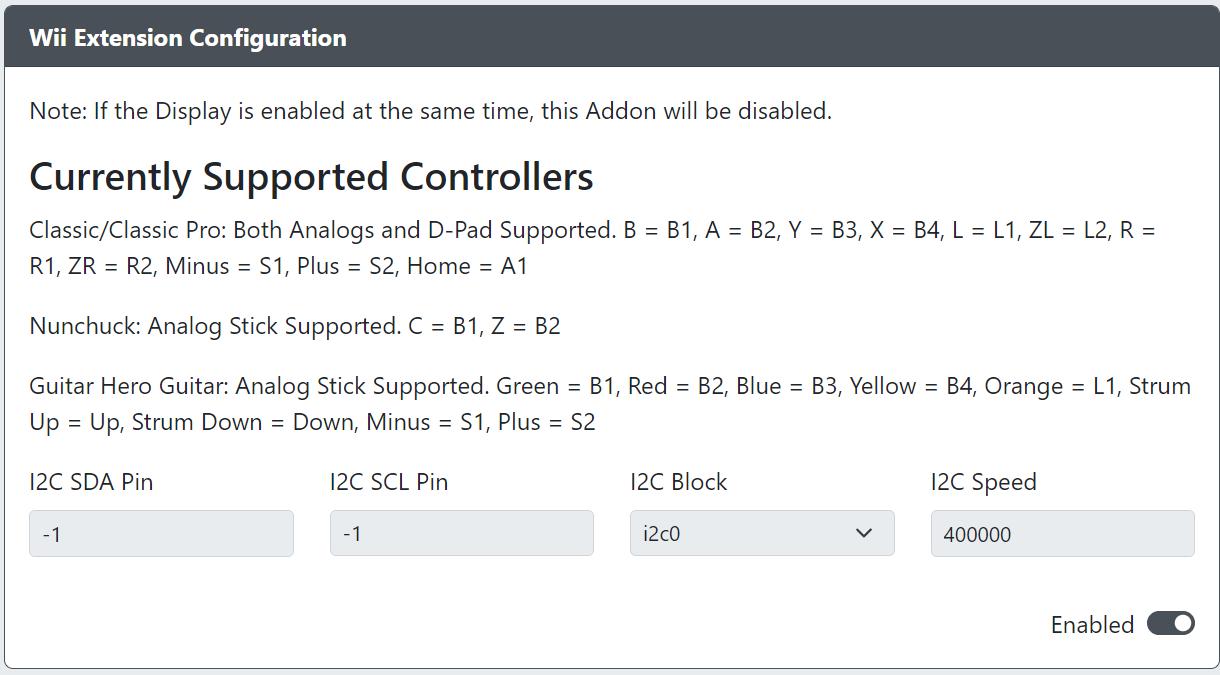
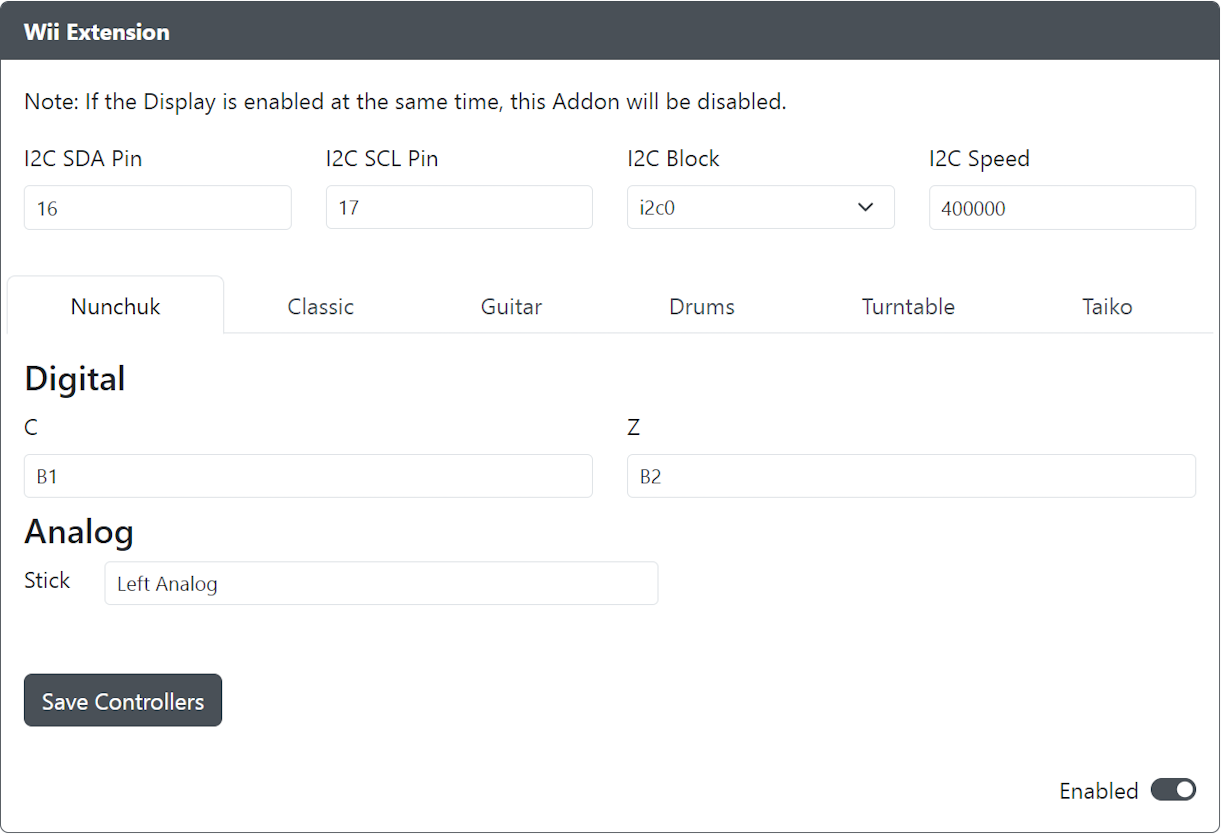
Fixed issue causing Classic Pro-based controllers from functioning. Updated documentation to remove Wii controller mapping details and add new image.

diff --git a/lib/WiiExtension/WiiExtension.cpp b/lib/WiiExtension/WiiExtension.cpp
@@ -48,9 +48,9 @@ void WiiExtension::start(){
             extensionController = new NunchuckExtension();
         } else if (idRead[5] == 0x01) {
             extensionType = WII_EXTENSION_CLASSIC;
-            if (idRead[0] == 0x01) {
-                extensionType = WII_EXTENSION_CLASSIC_PRO;
-            }
+            //if (idRead[0] == 0x01) {
+            //    extensionType = WII_EXTENSION_CLASSIC_PRO;
+            //}
             extensionController = new ClassicExtension();
         } else if (idRead[5] == 0x03) {
             extensionType = WII_EXTENSION_GUITAR;

diff --git a/docs/web-configurator-add-ons.md b/docs/web-configurator-add-ons.md
@@ -163,27 +163,11 @@ Enabling this add-on will allow you to use GP2040-CE on a PS4 with an 8 minute t
 * `I2C Block` - The block of I2C to use (i2c0 or i2c1).
 * `I2C Speed` - Sets the speed of I2C communication. Common values are `100000` for standard, or `400000` for fast.
 
-Supported Extension Controllers and their mapping is as follows:
-
-| GP2040-CE | Nunchuck | Classic      | Guitar Hero Guitar |
-|-----------|----------|--------------|--------------------|
-| B1        | C        | B            | Green              |
-| B2        | Z        | A            | Red                |
-| B3        |          | Y            | Blue               |
-| B4        |          | X            | Yellow             |
-| L1        |          | L            |                    |
-| L2        |          | ZL           |                    |
-| R1        |          | R            |                    |
-| R2        |          | ZR           |                    |
-| S1        |          | Select       |                    |
-| S2        |          | Start        |                    |
-| A1        |          | Home         |                    |
-| D-Pad     |          | D-Pad        | Strum Up/Down      |
-| Analog    | Left     | Left & Right | Left               |
-
-Classic Controller support includes Classic, Classic Pro, and NES/SNES Mini Controllers. 
+Classic Controller support includes Classic, Classic Pro, and NES/SNES Mini Controllers.
 
 Original Classic Controller L & R triggers are analog sensitive, where Pro triggers are not.
+
+Due to an accessory hardware issue, Drum & DJ turntable controllers may require hot-swapping from a Nunchuk or Classic controller before being usable.
 
 ## SNES Input
 
